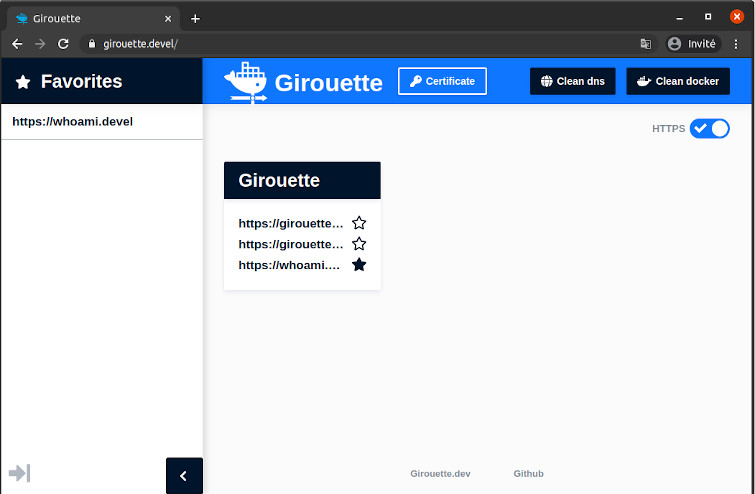
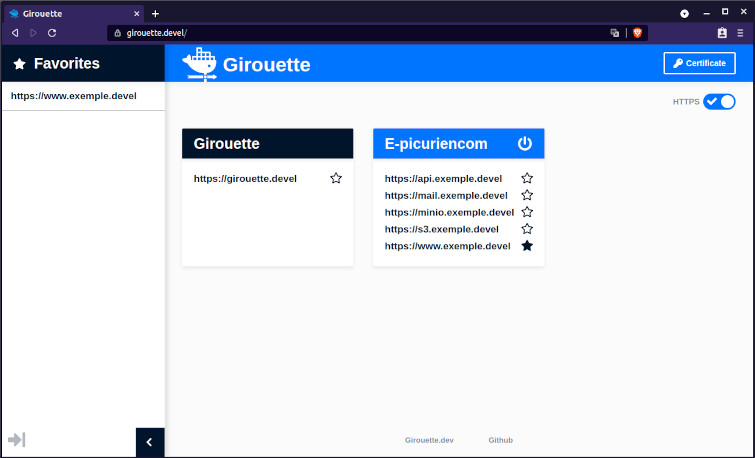
Remove dns and docker clean infos

Changed region(s): [[0.0, 0.0, 1.0, 1.0], [0.2132, 0.2751, 0.7311, 0.5502]]

diff --git a/content/posts/demo.md b/content/posts/demo.md
@@ -26,7 +26,5 @@ You can go to https://girouette.devel/ and see real time interface :
 - List of container started with domain label
 - Click link to open, add to favorite or switch to http / https
 - Stop docker-compose project
-- Clean docker (with container and image prune) / Clear DNS cache
-- Download Root certificate
 
 ![interface](/interface.jpg)
